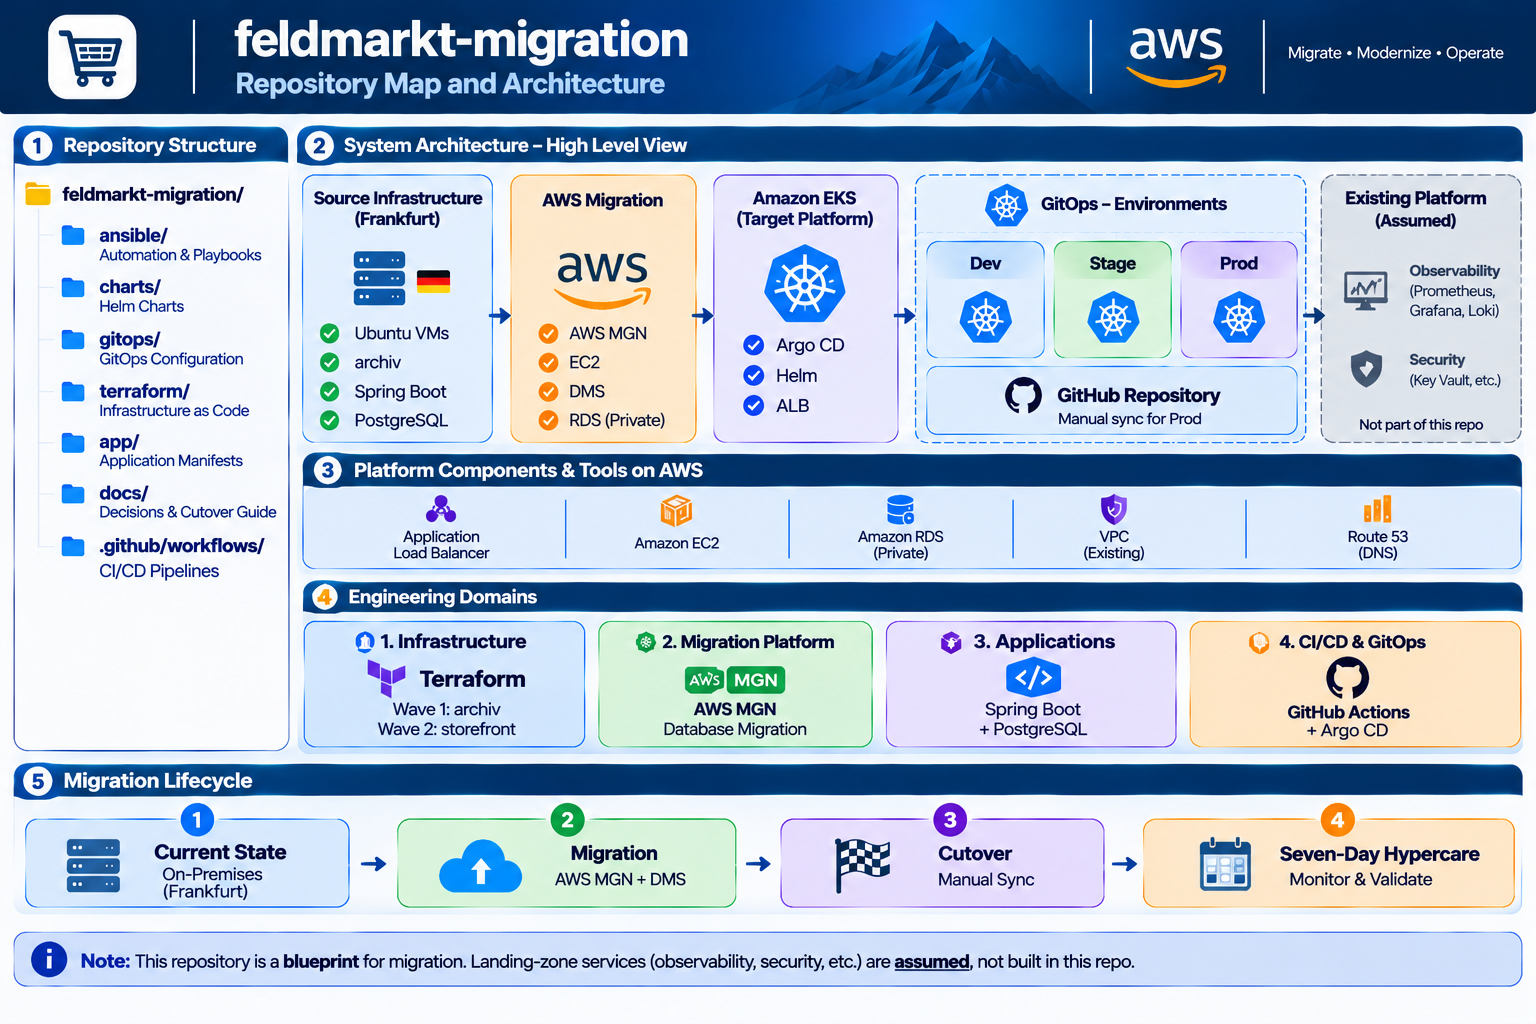
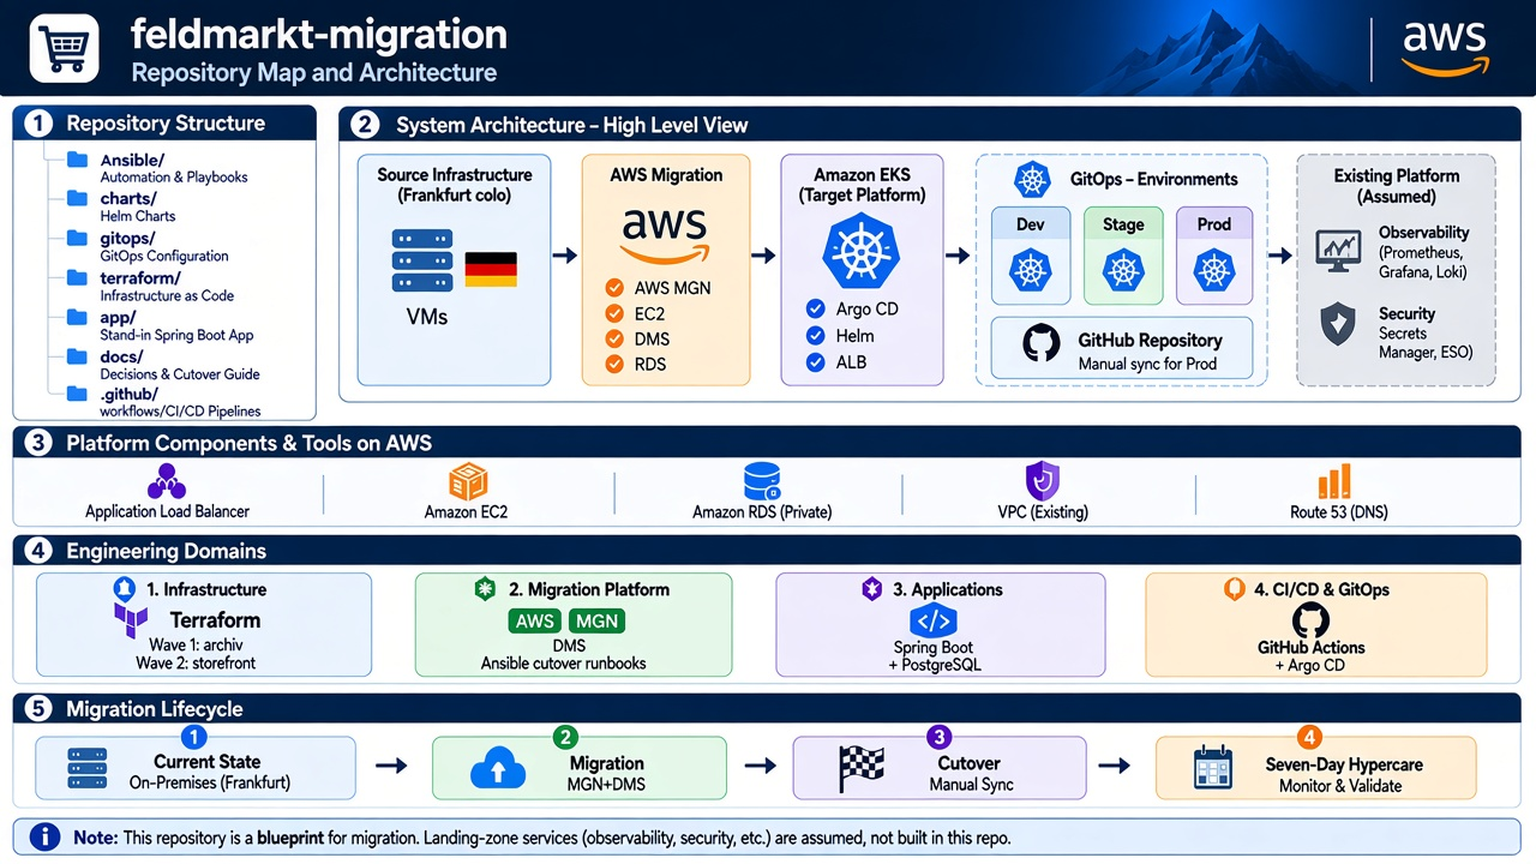
Release 0.2.1: documentation audit follow-up.
Align scenario rollback with RBK-3, refresh architecture map and changelog structure, and clarify CI versus local proof in the README.

diff --git a/docs/implementation.md b/docs/implementation.md
@@ -9,7 +9,7 @@ Read [scenario.md](scenario.md), [decisions.md](decisions.md), and [cutover.md](
 | Tool | Pin | Does | Does not |
 |------|-----|------|----------|
 | Terraform | >= 1.9, AWS provider ~> 6.0 | Apply [wave 1](../terraform/wave1-archiv/) and [wave 2](../terraform/wave2-storefront/) | Launch the `archiv` machine. Deploy `storefront`. |
-| Ansible | >= 2.15 | Colo inventory, prep asserts, Sunday freeze, proof helpers, rollback checks ([ansible/](../ansible/)) | Rebuild `archiv`. Replace MGN or DMS. Day-2 estate management |
+| Ansible | >= 2.15 | Colo inventory, prep asserts, Sunday freeze, proof helpers, post-MGN check-only validate, rollback checks ([ansible/](../ansible/)) | Rebuild `archiv`. Replace MGN or DMS. Day-2 estate management |
 | AWS CLI | v2 | MGN settings, DMS start and stop, the volume snapshot, Systems Manager, DNS TTL | Deploy to the cluster |
 | Session Manager plugin | current | Operator shell on `archiv`. After wave 3, the two users reach port 8443 through it | Replace private DNS during the seven days |
 | Helm | 3 | Render the chart and read the manifest | Apply the chart. Argo CD is the deployer |
@@ -153,7 +153,10 @@ Record the task id in the cutover note (TGT-7). Dev and stage never use this RDS
 
 Tool: GitHub Actions for the image, `kubectl` once to register the manifests, Argo CD for the deploy.
 
-The digest job stays off until both repository variables are set. `ECR_REPOSITORY` is the wave 2 output `ecr_repository_url`. `AWS_ROLE_ARN` is an existing GitHub OIDC role that can push to that repository. This repository does not create that role.
+The digest job stays off until both repository variables are set.
+
+- `ECR_REPOSITORY` — wave 2 output `ecr_repository_url`
+- `AWS_ROLE_ARN` — existing GitHub OIDC role that can push to that repository. This repository does not create that role.
 
 ```bash
 gh variable set AWS_ROLE_ARN --body "$AWS_ROLE_ARN"
@@ -162,7 +165,9 @@ gh variable set ECR_REPOSITORY --body "$ECR_REPOSITORY"
 
 Push to `main` under `app/storefront/`. The workflow tests, pushes an immutable image, and opens a pull request that changes only `gitops/envs/dev/storefront.yaml`. The pin is the `sha256:` value from the push, 64 hex characters. Merge that pull request.
 
-Nothing in this repository registers the Applications or the ExternalSecrets on the cluster. After the dev digest on `main` is that published value, create the namespaces, apply the secrets, then register dev:
+Nothing in this repository registers the Applications or the ExternalSecrets on the cluster.
+
+After the dev digest on `main` is that published value, create the namespaces, apply the secrets, then register dev:
 
 ```bash
 kubectl create namespace storefront-dev --dry-run=client -o yaml | kubectl apply -f -
@@ -182,7 +187,10 @@ kubectl apply -f gitops/apps/storefront-prod.yaml
 
 Do not let CI edit stage or prod.
 
-Prove dev and stage with a read-only check. `GET /health` on port 8080 returns 200. Both use the nonprod endpoint. The image has no shell tools, so the check is a port forward from the operator machine.
+Prove dev and stage with a read-only check.
+
+- `GET /health` on port 8080 must return 200. Both envs use the nonprod endpoint.
+- The image has no shell tools, so the check is a port-forward from the operator machine.
 
 ```bash
 kubectl port-forward -n storefront-dev deploy/storefront 8080:8080
@@ -310,7 +318,9 @@ Then point public DNS back at the colo virtual machine and revert the Git digest
 
 ## 11. Seven days, then wave 3
 
-Leave the colo machines, colo PostgreSQL, and the VPN up for seven days. RDS is the writer for `storefront` if that go line was written. If the prod secret version changes, roll the deployment after External Secrets has updated `storefront-db-prod`.
+Leave the colo machines, colo PostgreSQL, and the VPN up for seven days. RDS is the writer for `storefront` if that go line was written.
+
+If the prod secret version changes, roll the deployment after External Secrets has updated `storefront-db-prod`.
 
 After those seven days with no open rollback, delete the site-to-site VPN and power off the colo machines. This repository has no code for that deletion.
 

diff --git a/README.md b/README.md
@@ -5,6 +5,7 @@ On-premises workload migration to AWS: rehost one virtual machine, replatform on
 [![Terraform](https://img.shields.io/badge/terraform-%3E%3D1.9-purple.svg)](https://www.terraform.io/)
 [![AWS](https://img.shields.io/badge/AWS-eu--central--1-FF9900.svg)](https://aws.amazon.com/)
 [![Ansible](https://img.shields.io/badge/Ansible-migration%20runbooks-EE0000.svg)](ansible/README.md)
+[![ansible lint](https://github.com/btilki/feldmarkt-migration/actions/workflows/ansible-lint.yml/badge.svg)](https://github.com/btilki/feldmarkt-migration/actions/workflows/ansible-lint.yml)
 [![Maturity](https://img.shields.io/badge/maturity-blueprint-blue.svg)](docs/scenario.md)
 [![License](https://img.shields.io/badge/license-Apache%202.0-blue.svg)](LICENSE)
 
@@ -28,7 +29,7 @@ A colo contract ends. Two Ubuntu virtual machines still run production: an inter
 
 ## Result
 
-The blueprint holds scenario, requirements, decisions, architecture, a blank cutover note, wave 1 and wave 2 Terraform, the storefront chart and GitOps pins, a stand-in image, and Ansible runbooks. Local proofs that exist today: `terraform validate`, `mvn verify`, `helm template`, `ansible-lint`. No lived cutover, no billable AWS resources from this repository.
+The blueprint holds scenario, requirements, decisions, architecture, a blank cutover note, wave 1 and wave 2 Terraform, the storefront chart and GitOps pins, a stand-in image, and Ansible runbooks. CI runs ansible lint and digest pull requests; local checks include Terraform validate, `mvn verify`, and `helm template` (see Proof). No lived cutover, no billable AWS resources from this repository.
 
 ---
 
@@ -47,12 +48,10 @@ The blueprint holds scenario, requirements, decisions, architecture, a blank cut
 
 This repository is a blueprint. There is no live cutover screenshot set.
 
-What has been checked locally while encoding the design:
-
-- Terraform validate for wave 1 and wave 2 (AWS provider 6.x)
-- `mvn verify` on the storefront stand-in (Spring Boot 3.5.5)
-- `helm template` for digests and prod Ingress
-- `ansible-playbook --syntax-check` and `ansible-lint` on `ansible/`
+| Where | What runs |
+|-------|-----------|
+| CI on push/PR | `ansible-lint` and `ansible-playbook --syntax-check` when `ansible/` changes ([workflow](.github/workflows/ansible-lint.yml)). Storefront digest PR for dev when app/chart paths change ([workflow](.github/workflows/storefront-digest.yml)). |
+| Local while encoding | `terraform validate` (wave 1 and wave 2, AWS provider 6.x), `mvn verify` on the stand-in (Spring Boot 3.5.5), `helm template` for digests and prod Ingress |
 
 Operator evidence for a real window still lives as blank lines in [docs/cutover.md](docs/cutover.md).
 
@@ -65,6 +64,7 @@ Operator evidence for a real window still lives as blank lines in [docs/cutover.
 - Site-to-site VPN is described and required; this repo has no Terraform for it.
 - Wave 3 (remove colo and VPN) is prose only.
 - VPC, EKS, Argo CD, and the ALB group are assumed from the existing landing zone ([boutique-eks-gitops](https://github.com/btilki/boutique-eks-gitops) pattern).
+
 More detail: [docs/lessons-learned.md](docs/lessons-learned.md) · [ROADMAP.md](ROADMAP.md)
 
 ---

diff --git a/docs/scenario.md b/docs/scenario.md
@@ -62,7 +62,7 @@ At the start of the window, writes freeze on `archiv` and on `storefront`. MGN f
 | Workload | Recovery point | Recovery time | Rollback |
 |----------|----------------|---------------|----------|
 | `archiv` | The write freeze. Data written before the freeze is on the cutover instance. | 30 minutes. Point private DNS back at the colo machine. | Colo VM still on. New EC2 instance stopped and kept. Volume snapshotted before DNS moves. |
-| `storefront` application | The process stores no shop data on local disk. | 15 minutes. Point DNS back at the colo VM and revert the Git digest pin. | Colo VM still on. |
+| `storefront` application | The process stores no shop data on local disk. | 15 minutes (RBK-3). Scale prod to 0 replicas, stop the DMS task, point DNS back at the colo VM, and revert the Git digest pin. See [cutover](cutover.md). | Colo VM still on. |
 | `storefront` database | The write freeze. Rows written before the freeze are on RDS. | Point the application back at colo PostgreSQL. | Writes that landed on RDS after the switch are not copied back to the colo. |
 
 The colo machines, colo PostgreSQL, and the VPN stay for seven days after a successful DNS change. Those seven days are the hypercare window. During those seven days RDS is the production writer.

diff --git a/terraform/wave1-archiv/README.md b/terraform/wave1-archiv/README.md
@@ -11,7 +11,7 @@ MGN launches the cutover instance after the agent on the Frankfurt virtual machi
 | Launch template | Private subnet, no public IP address, the cutover security group, IMDSv2. No AMI. MGN supplies the replicated machine. There is no `aws_instance`. |
 | Replication security group | TCP 1500 from the colo CIDR only. Egress 443 is the MGN control plane. |
 
-The MGN replication template is not a Terraform resource in the AWS provider. The output `mgn_replication_settings` is the template MGN must use: the existing private subnet, the replication security group, no public IP, and `PRIVATE_IP` data plane routing.
+The MGN replication template is not a Terraform resource in the AWS provider. The output `mgn_replication_settings` holds values to copy into the MGN replication template: the existing private subnet, the replication security group, no public IP, and `PRIVATE_IP` data plane routing.
 
 The VPC, the private subnet, the site-to-site VPN, and a private path for TCP 443 from that subnet to the MGN service already belong to the landing zone. This stack does not create a VPC, a NAT gateway, or a public address.
 

diff --git a/CHANGELOG.md b/CHANGELOG.md
@@ -6,6 +6,22 @@ The format is based on [Keep a Changelog](https://keepachangelog.com/en/1.1.0/).
 
 ## [Unreleased]
 
+## [0.2.1] — 2026-11-17
+
+### Fixed
+
+- `docs/scenario.md`: storefront application rollback matches RBK-3 (stop prod, stop DMS, DNS, digest pin).
+
+### Changed
+
+- Architecture map PNG: `app/` stand-in label, Ansible on migration domain, Secrets Manager and ESO on assumed platform.
+- Architecture map legend in `assets/images/README.md`.
+- Root README Proof: CI vs local checks in a table; GitHub Actions badge for ansible lint.
+- `terraform/wave1-archiv/README.md`: MGN output described as values to copy into the replication template.
+- `ansible/README.md`: DMS/MGN CLI wording; `implementation.md` Ansible row includes playbook `07`, step 7 and 11 skim splits.
+
+## [0.2.0] — 2026-11-12
+
 ### Added
 
 - Ansible migration runbooks (`01`–`07`): inventory, colo prep, preflight, freeze, proofs, rollback checks, post-MGN validate.

diff --git a/assets/images/README.md b/assets/images/README.md
@@ -5,3 +5,11 @@
 | [feldmarkt-aws-migration-architecture-map.png](feldmarkt-aws-migration-architecture-map.png) | Root [README.md](../../README.md) — repository map and architecture |
 
 Matches the repo story: `ansible/`, `charts/`, `gitops/`, `terraform/`, `app/`, `docs/` (decisions and cutover), `.github/workflows/`. GitOps notes manual sync for prod. Existing platform (observability, security) is labeled assumed. Footer states this is a blueprint.
+
+## Map labels
+
+| Map element | Meaning |
+|-------------|---------|
+| `app/` | Stand-in Spring Boot app (`Dockerfile`, JAR source). Kubernetes manifests live under `charts/` and `gitops/`. |
+| Engineering domain — migration | AWS MGN, DMS, and Ansible cutover runbooks ([ansible/](../../ansible/)). |
+| Assumed security (existing platform) | Secrets Manager and External Secrets Operator. |

diff --git a/ansible/README.md b/ansible/README.md
@@ -9,7 +9,7 @@ Decision: [D8](../docs/decisions.md). Ansible is migration automation. It does n
 | Pin | Role |
 |-----|------|
 | Ansible >= 2.15 | Run the playbooks from a control host that reaches the colo over the site-to-site VPN |
-| AWS CLI v2 | Used by `03-preflight.yml` for MGN and DMS describes |
+| AWS CLI v2 | Used by `03-preflight.yml` for MGN and DMS `describe` API calls |
 | `psql` | Client major version matches colo PostgreSQL |
 | `ansible-vault` | Local secrets only; `vault.yml` is gitignored |
 
